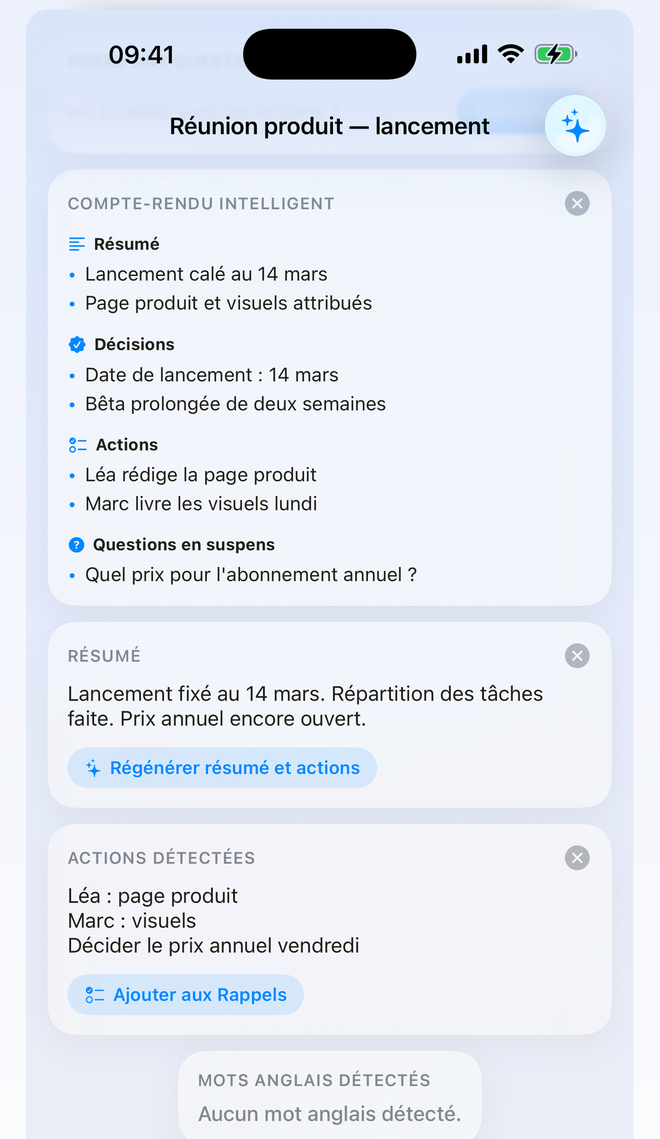
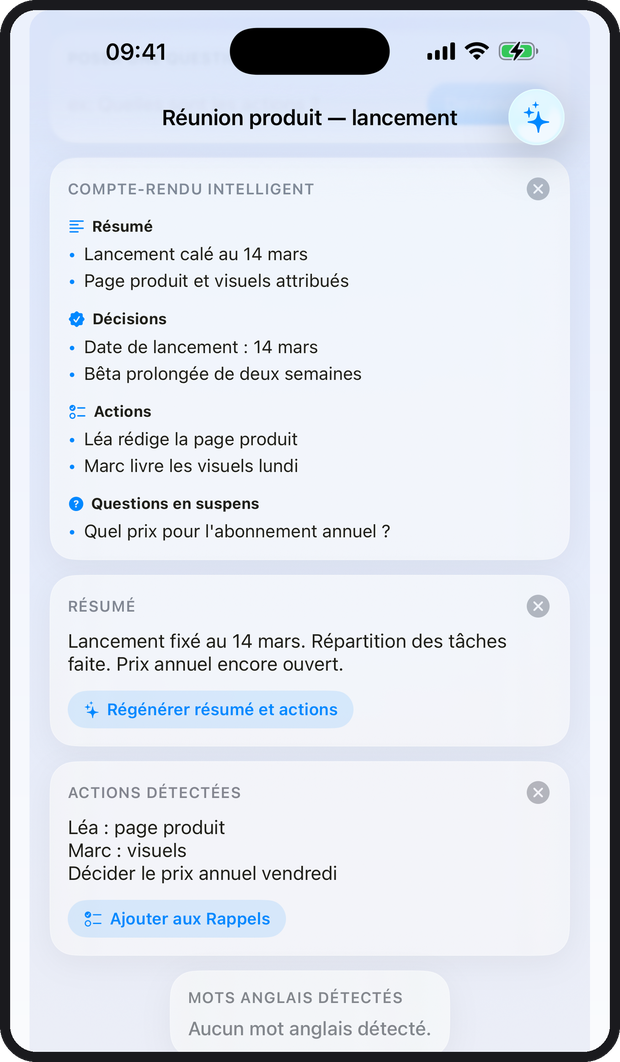
fix: les captures s'affichaient déformées et tronquées
Les balises img portaient width/height explicites sans `height:auto` en CSS :
la largeur était contrainte à la colonne, la hauteur restait celle du fichier,
et les captures s'étiraient hors de leur bloc.

Les visuels sont aussi remontés dans un cadre d'appareil : les captures de
l'App Store se terminaient en bord perdu, ce qui donnait des images coupées
net en bas de page.

diff --git a/index.html b/index.html
@@ -48,7 +48,7 @@
         </div>
       </div>
       <div class="shot">
-        <img src="assets/fr-01-record.png" alt="Écran d'enregistrement de NotaVox : forme d'onde, minuteur et bouton d'enregistrement." width="660" height="1139">
+        <img src="assets/fr-01-record.png" alt="Écran d'enregistrement de NotaVox : forme d'onde, minuteur et bouton d'enregistrement." width="620" height="1062">
       </div>
     </div>
   </header>
@@ -108,15 +108,15 @@
     </div>
     <div class="strip">
       <figure>
-        <img src="assets/fr-02-transcript.png" alt="Transcription d'une note affichée dans NotaVox." width="660" height="1139" loading="lazy">
+        <img src="assets/fr-02-transcript.png" alt="Transcription d'une note affichée dans NotaVox." width="620" height="1062" loading="lazy">
         <figcaption><span class="fr">La transcription, mot pour mot.</span><span class="en">The transcript, word for word.</span></figcaption>
       </figure>
       <figure>
-        <img src="assets/fr-03-minutes.png" alt="Compte-rendu intelligent : résumé, décisions, actions et questions." width="660" height="1139" loading="lazy">
+        <img src="assets/fr-03-minutes.png" alt="Compte-rendu intelligent : résumé, décisions, actions et questions." width="620" height="1062" loading="lazy">
         <figcaption><span class="fr">Le compte-rendu : résumé, décisions, actions, questions.</span><span class="en">Smart Minutes: summary, decisions, actions, questions.</span></figcaption>
       </figure>
       <figure>
-        <img src="assets/fr-04-list.png" alt="Liste des notes avec tags, favoris et recherche." width="660" height="1139" loading="lazy">
+        <img src="assets/fr-04-list.png" alt="Liste des notes avec tags, favoris et recherche." width="620" height="1062" loading="lazy">
         <figcaption><span class="fr">Tes notes, avec tags et recherche.</span><span class="en">Your notes, with tags and search.</span></figcaption>
       </figure>
     </div>

diff --git a/assets/site.css b/assets/site.css
@@ -43,7 +43,7 @@ body{
   font-family:"Public Sans",-apple-system,BlinkMacSystemFont,"Segoe UI",Roboto,sans-serif;
   font-size:16px; line-height:1.6; -webkit-font-smoothing:antialiased;
 }
-img{max-width:100%; display:block}
+img{max-width:100%; height:auto; display:block}
 a{color:var(--accent)}
 a:focus-visible,button:focus-visible{outline:2px solid var(--accent); outline-offset:2px; border-radius:4px}
 
@@ -96,7 +96,7 @@ p{margin:0}
 }
 .fact b{color:var(--ink); font-weight:600}
 .dot{width:7px; height:7px; border-radius:50%; background:var(--hot); flex:none}
-.shot{border-radius:20px; overflow:hidden; box-shadow:var(--shadow); background:#e8eefc; max-width:390px; margin-left:auto}
+.shot{max-width:326px; margin-left:auto; filter:drop-shadow(0 20px 44px rgba(15,20,40,.24))}
 
 /* ---------- sections ---------- */
 section{padding:56px 0}
@@ -113,9 +113,9 @@ section{padding:56px 0}
 .feature li{margin-bottom:3px}
 
 /* ---------- bande de captures ---------- */
-.strip{display:flex; gap:18px; overflow-x:auto; padding-bottom:10px; scroll-snap-type:x mandatory}
-.strip figure{margin:0; flex:0 0 250px; scroll-snap-align:start}
-.strip img{border-radius:16px; box-shadow:var(--shadow); background:#e8eefc}
+.strip{display:flex; gap:26px; overflow-x:auto; padding:6px 4px 14px; scroll-snap-type:x mandatory}
+.strip figure{margin:0; flex:0 0 238px; scroll-snap-align:start}
+.strip img{filter:drop-shadow(0 14px 30px rgba(15,20,40,.20))}
 .strip figcaption{margin-top:11px; font-size:13.5px; color:var(--ink-3)}
 
 /* ---------- encadré ---------- */
@@ -174,7 +174,7 @@ footer .right{margin-left:auto; font-family:"IBM Plex Mono",monospace; font-size
 @media (max-width:820px){
   .hero-grid{grid-template-columns:1fr; gap:34px}
   .hero{padding:44px 0 0}
-  .shot{max-width:340px; margin:0 auto}
+  .shot{max-width:300px; margin:0 auto}
   .features{grid-template-columns:1fr}
   .topnav{gap:12px}
 }
